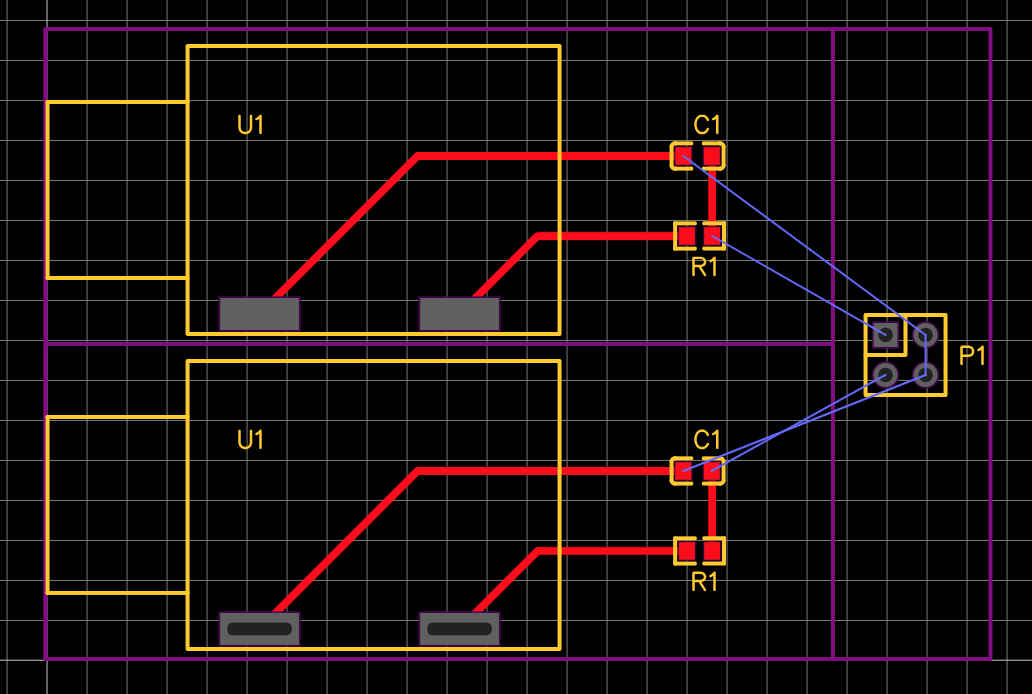
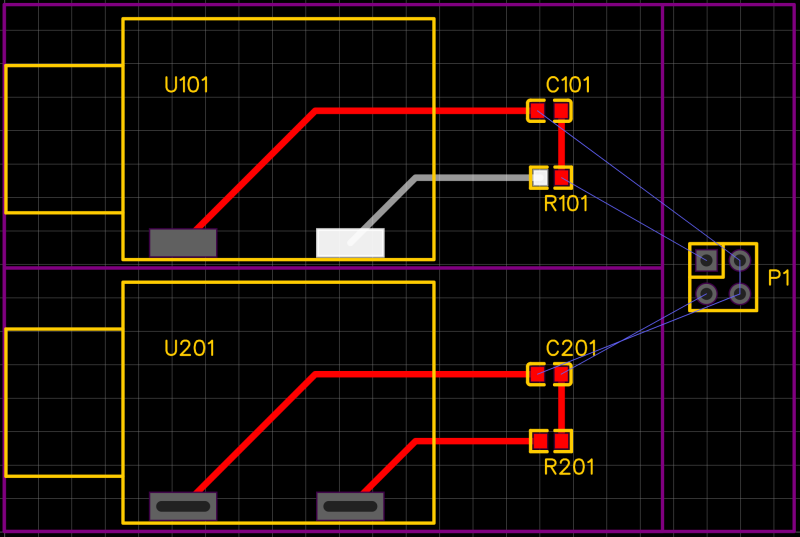
Add support for component subparts; Add option to increment component prefix instead of appending suffix; Capitalize PCB net names; Suppress identical warnings

diff --git a/easyeda_multichannel.py b/easyeda_multichannel.py
@@ -1,6 +1,7 @@
 import json
 import copy
 import uuid
+import re
 
 import config
 
@@ -89,19 +90,66 @@ def find_sub(subs, values):
 	# Did not found
 	return None
 
-def translate_channel_prefix(oldPrefix, ch_id):
+def split_prefix(prefix):
+	"""
+	Split prefix into 3 strings: base, part, subpart
+	For example 'U1.3' will return 'U', '1', '.3'
+	The whole prefix is returned in 'base' if split fails.
+	-------
+	Arguments:
+		prefix:					str
+			Component prefix string
+	Return value:
+		(base: str, part: str, subpart: str)
+	"""
+	# Separate part and subpart index
+	try:
+		base, part, subpart = re.match('([A-Za-z]+)([0-9]+)(.[0-9]*)?', prefix).groups()
+
+		if subpart is None:
+			subpart = ''
+
+		return base, part, subpart
+		# print('INFO: Type: %s, part: %s, subpart: %s' % (type, part, subpart))
+	except Exception as inst:
+		print('WARNING: Unable to split prefix %s:' % prefix, inst)
+
+		# Fallback variant
+		return prefix, '', ''
+
+def translate_channel_net(oldPrefix, ch_id):
 	if oldPrefix.startswith('G:'):
 		# Treat names that start with G: as global nets. Here we don't add a channel
 		# name, but remove the G: prefix so it ties in with the global net in the main
 		# pcb or schematic. This is useful for address busses, databusses. clock lines,
 		# etc.. -TVe
 		return oldPrefix[2:]
-	elif config.channel_prefix_style == 1:
+	elif config.channel_net_style == 1:
 		return oldPrefix + '_' + ch_id
-	elif config.channel_prefix_style == 2:
+	elif config.channel_net_style == 2:
 		return ch_id + ':' + oldPrefix
 	else:
-		raise Exception('Unknown channel prefix style, please check configuration: ' + config.channel_prefix_style)
+		raise Exception('Unknown channel prefix style, please check configuration: ' + config.channel_net_style)
+
+def translate_channel_prefix(base, part, ch_id, incr_prefix):
+	"""
+	Convert component prefix to a channel-specific one
+	-------
+	Arguments:
+		base, part:
+			values returned by split_prefix()
+		ch_id:							str
+			String containing channel name
+		incr_prefix:					int
+			Integer number to increment the prefix by
+	Return value:
+		new_prefix:						str
+	"""
+
+	if config.channel_prefix_incr and len(part) > 0:
+		return '%s%d' % (base, int(part) + incr_prefix)
+	else:
+		return translate_channel_net('%s%s' % (base, part), ch_id)
 
 ####################################################
 ####				MAIN ROUTINE				####
@@ -110,6 +158,9 @@ def translate_channel_prefix(oldPrefix, ch_id):
 # Load schematics and PCBs
 main_sch = load_json_from_file(config.main_sch_file)
 main_pcb = load_json_from_file(config.main_pcb_file)
+
+# Global states
+svgnode_warn = True
 
 for ch_sch_file, ch_pcb_file, channels in config.channel_sources:
 	# Load channel schematics and PCBs
@@ -125,7 +176,7 @@ for ch_sch_file, ch_pcb_file, channels in config.channel_sources:
 	# dump_shapes(ch_sch['schematics'][0]['dataStr']['shape'], 'sch_shapes.txt')
 	# dump_shapes(ch_pcb['shape'], 'pcb_shapes.txt')
 
-	for i_ch, (ch_x, ch_y) in channels.items():
+	for i_ch, (ch_x, ch_y, incr_prefix) in channels.items():
 		####################################################
 		####			PROCESSING SCHEMATIC			####
 		####################################################
@@ -143,12 +194,12 @@ for ch_sch_file, ch_pcb_file, channels in config.channel_sources:
 		sch['dataStr']['head']['uuid'] = uuid.uuid4().hex
 
 		# Append channel name to the sheet title
-		if config.channel_prefix_style == 1:
+		if config.channel_net_style == 1:
 			sch['title'] += '_' + str(i_ch)
-		elif config.channel_prefix_style == 2:
+		elif config.channel_net_style == 2:
 			sch['title'] = str(i_ch) + ':' + sch['title']
 		else:
-			raise Exception('Unknown channel prefix style, please check configuration: ' + config.channel_prefix_style)
+			raise Exception('Unknown channel prefix style, please check configuration: ' + config.channel_net_style)
 
 		# Process shapes
 		shape_list = sch['dataStr']['shape']
@@ -177,8 +228,11 @@ for ch_sch_file, ch_pcb_file, channels in config.channel_sources:
 
 				# Update part, excluding sheet frame
 				if not old_id.startswith('frame_lib'):
+					# Split prefix
+					base, part, subpart = split_prefix(prefix_old)
+
 					# Append channel to the prefix
-					prefix_new = translate_channel_prefix(prefix_old, str(i_ch))
+					prefix_new = translate_channel_prefix(base, part, str(i_ch), incr_prefix)
 
 					# Replace unique identifier, store reference in the dictionary
 					new_id = 'gge' + uuid.uuid4().hex[-16:]
@@ -189,21 +243,21 @@ for ch_sch_file, ch_pcb_file, channels in config.channel_sources:
 					for sub in subs:
 						if sub[0][0] == 'P':
 							pad_name = sub[4][4]
-							pad_net_old = '%s_%s' % (prefix_old, pad_name)
+							pad_net_old = '%s%s_%s' % (base, part, pad_name)
 							pad_net_new = '%s_%s' % (prefix_new, pad_name)
-							net_dict[pad_net_old] = pad_net_new
+							net_dict[pad_net_old.upper()] = pad_net_new.upper()
 
 					# Store new prefix
-					prefix_sub[0][12] = prefix_new
+					prefix_sub[0][12] = '%s%s' % (prefix_new, subpart)
 
 			# Process net labels
 			elif shape_type == 'N':
 				# Get old net name, append channel to the new name
 				net_name_old = subs[0][0][5]
-				net_name_new = translate_channel_prefix(net_name_old, str(i_ch))
+				net_name_new = translate_channel_net(net_name_old, str(i_ch))
 
 				# Store net
-				net_dict[net_name_old] = net_name_new
+				net_dict[net_name_old.upper()] = net_name_new.upper()
 
 				# Store new net name
 				subs[0][0][5] = net_name_new
@@ -212,10 +266,10 @@ for ch_sch_file, ch_pcb_file, channels in config.channel_sources:
 			elif shape_type == 'F' and subs[0][0][1] == 'part_netLabel_netPort':
 				# Get old net name, append channel to the new name
 				net_name_old = subs[0][2][0]
-				net_name_new = translate_channel_prefix(net_name_old, str(i_ch))
+				net_name_new = translate_channel_net(net_name_old, str(i_ch))
 
 				# Store net
-				net_dict[net_name_old] = net_name_new
+				net_dict[net_name_old.upper()] = net_name_new.upper()
 
 				# Store new net name
 				subs[0][2][0] = net_name_new
@@ -223,7 +277,7 @@ for ch_sch_file, ch_pcb_file, channels in config.channel_sources:
 			# All power and ground netlabels are treated as global nets
 			elif shape_type == 'F':
 				net_name = subs[0][2][0]
-				net_dict[net_name] = net_name
+				net_dict[net_name.upper()] = net_name.upper()
 
 			# Reassemble shape
 			shape_list[i] = encode_shape(subs)
@@ -258,8 +312,16 @@ for ch_sch_file, ch_pcb_file, channels in config.channel_sources:
 					print('ERROR: Prefix text of PCB LIB shape is not recognized')
 					print(shape_to_str(i, subs))
 				else:
+					# Split prefix
+					base, part, subpart = split_prefix(prefix_sub[0][10])
+
+					# Ensure there is no subpart in PCB
+					if len(subpart) > 0:
+						print('ERROR: Subpart cannot exist in PCB: %s' % prefix_sub[0][10])
+
 					# Append channel to the prefix
-					prefix_sub[0][10] = translate_channel_prefix(prefix_sub[0][10], str(i_ch))
+					prefix_sub[0][10] = translate_channel_prefix(base, part, str(i_ch), incr_prefix)
+
 					# Field 11 is assumed to be line data that draws the text.
 					# Remove it to force EasyEDA to recreate it. -TVe
 					prefix_sub[0][11] = ''
@@ -292,7 +354,7 @@ for ch_sch_file, ch_pcb_file, channels in config.channel_sources:
 					data[4] = offset_x_y(data[4], ch_x, ch_y)
 
 					# update net data[3]
-					net_name = data[3]
+					net_name = data[3].upper()
 					if net_name:
 						try:
 							data[3] = net_dict[net_name]
@@ -316,7 +378,7 @@ for ch_sch_file, ch_pcb_file, channels in config.channel_sources:
 					data[2] = str(float(data[2]) + ch_y)
 
 					# update net data[4]
-					net_name = data[4]
+					net_name = data[4].upper()
 					if net_name:
 						try:
 							data[4] = net_dict[net_name]
@@ -331,7 +393,7 @@ for ch_sch_file, ch_pcb_file, channels in config.channel_sources:
 					data[19] = offset_x_y(data[19], ch_x, ch_y, separator=',')
 
 					# update net data[7]
-					net_name = data[7]
+					net_name = data[7].upper()
 					if net_name:
 						try:
 							data[7] = net_dict[net_name]
@@ -344,7 +406,9 @@ for ch_sch_file, ch_pcb_file, channels in config.channel_sources:
 
 				elif shape_type == 'SVGNODE':
 					# svg_data = json.loads(data[1])
-					print("NOTE: PCB shape SVGNODE has been skipped (not implemented yet)")
+					if svgnode_warn:
+						print("NOTE: PCB shape SVGNODE has been skipped (further occurrences will be suppressed)")
+					svgnode_warn = False
 
 				else:
 					print('ERROR: Unsupported pcb subshape %s' % shape_type)

diff --git a/README.md b/README.md
@@ -15,9 +15,12 @@ Python 3.6 (or compatible version) is required. No additional modules are used.
 Copy **config.py.template** as your local **config.py** and edit it. Set desired file names,
 channel names, PCB offset X and Y, then run the script.
 
-Script will update all of the channel prefixes, net names, etc, according to the configured **channel_prefix_style** (e.g. by adding an underscore and a channel name).
-For example, a part named **U1** will become **U1_CH1**, **U1_CH2** in the output design. Power/ground ports remain
+Script will update all of the channel nets according to the configured **channel_net_style** (e.g. by adding an underscore and a channel name).
+For example, a net named **INPUT** will become **INPUT_CH1**, **INPUT_CH2** in the output design. Power/ground ports remain
 unmodified. Also channel nets which names start with **G:** are treated as global, while the **G:** prefix itself it being removed in the output *(special thanks to @timveldhuizen for this feature)*.
+
+The component prefixes can be configured to increment by a specified number (e.g. **U1** becomes **U101**, **U102**) or processed in the same way as the nets (**U1_CH1**, **U1_CH2**).
+Behavior depends on the **channel_prefix_incr** setting in the config file (either True or False).
 
 3. Open the generated output schematic and PCB with EasyEDA. Preferrably save as a new project.
 Try to update PCB from schematic in order to check whether they match.
